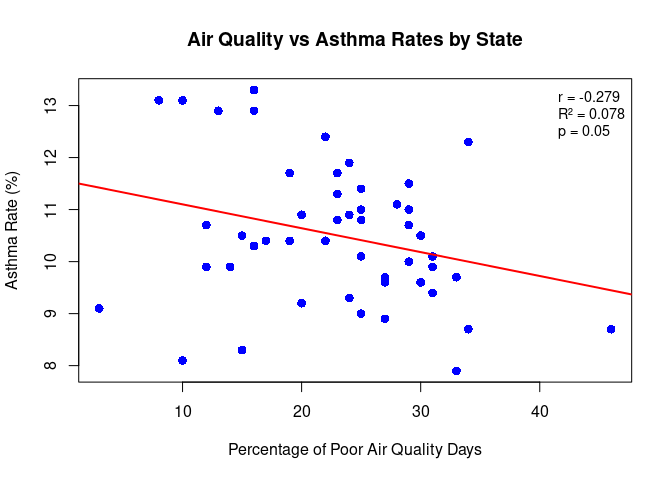
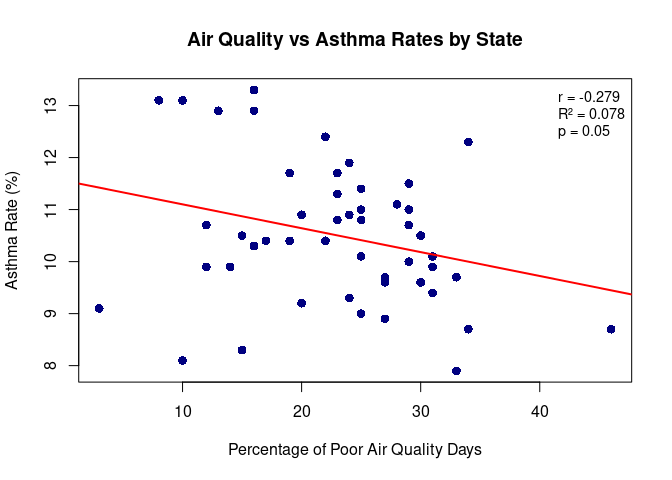
RMarkdown-Group-Project.md file

diff --git a/RMarkdown-Group-Project.md b/RMarkdown-Group-Project.md
@@ -1,7 +1,7 @@
 Group Project
 ================
 Keyan Cummins
-2025-11-20
+2025-12-02
 
 - [ABSTRACT](#abstract)
 - [BACKGROUND](#background)
@@ -9,13 +9,16 @@ Keyan Cummins
   - [Questions](#questions)
   - [Hypothesis](#hypothesis)
   - [Prediction](#prediction)
-- [METHODS/RESULTS](#methodsresults)
-  - [1st Analysis (Linear Regression)](#1st-analysis-linear-regression)
-  - [2nd Analysis (Pearson
-    Correlation)](#2nd-analysis-pearson-correlation)
+- [METHODS](#methods)
+  - [Statistical Methods](#statistical-methods)
+- [RESULTS](#results)
+  - [1st Analysis (Normality
+    Assessment)](#1st-analysis-normality-assessment)
+  - [2nd Analysis (Linear Regression)](#2nd-analysis-linear-regression)
+  - [3rd Analysis (Pearson
+    Correlation)](#3rd-analysis-pearson-correlation)
 - [DISCUSSION](#discussion)
-  - [Interpretation of 1st analysis](#interpretation-of-1st-analysis)
-  - [Interpretation of 2nd analysis](#interpretation-of-2nd-analysis)
+  - [Interpretation of Findings](#interpretation-of-findings)
 - [CONCLUSION](#conclusion)
 - [REFERENCES](#references)
 
@@ -38,35 +41,32 @@ supported by this dataset.
 
 # BACKGROUND
 
-Asthma is a lung condition that causes difficulty in breathing due to
-constricted airways in the lungs. There are many different kinds of
-asthma such as: exercise-induced asthma, occupational asthma, and
-allergy-induced asthma (Asthma). Those with occupational asthma can have
-attacks triggered by things such as gases, fumes, and dust, similar to
-that of air pollution (Asthma). Severity of the condition differs from
-person to person with some only experiencing minor symptoms while others
-can experience life-threatening challenges from the disease (Asthma).
-Asthma is a very common disease in the U.S., with about 28 million
-people in the U.S. suffering from asthma (Asthma Facts).
+Asthma is a chronic lung condition that causes difficulty in breathing
+due to inflammation and constricted airways in the lungs \[1\]. There
+are many different kinds of asthma, including exercise-induced,
+occupational, and allergy-induced asthma \[1\]. For instance,
+individuals with occupational asthma can have attacks triggered by
+exposures such as gases, fumes, and dust, which are similar to
+components found in air pollution \[1\]. The severity of the condition
+differs from person to person, with some only experiencing minor
+symptoms while others can face life-threatening challenges \[1\]. Asthma
+is a common disease in the U.S., affecting approximately 28 million
+people \[2\].
 
-Poor air quality can impact those who suffer from asthma by causing
-their condition to worsen and trigger attacks (Tiotiu). It has been
-found in epidemiological studies that greater levels of air pollution
-has been associated with childhood asthma and that following an
-improvement of air quality, childhood asthma incidence had lowered
-(Jama). The state with the worst air quality in the U.S. is California
-due to its high air pollution.
+Poor ambient air quality is known to impact those who suffer from asthma
+by causing their condition to worsen and triggering attacks \[6\].
+Epidemiological studies have found that greater levels of air pollution
+are associated with childhood asthma, and an improvement in air quality
+has been linked to a reduction in childhood asthma incidence \[5\]. It
+is believed that air quality can affect the prevalence of asthma per
+state. The state with the worst air quality in the U.S. is often cited
+as California due due to its high air pollution levels.
 
-It is believed that air quality can affect the prevalence of asthma per
-state. We hypothesize that states that have a higher amount of poor air
-quality days will have a higher prevalence of asthma. We predict that
-California will have the most poor air quality days and, because of
-that, they will also have the highest rates of asthma compared to other
-states. We took data from the United States Environmental Protection
-Agency on asthma prevelance and air quality index by state. To ensure
-the validity of our statistical approach, we utilized histograms and a
-Shapiro-Wilk test to determine if the data was normally distributed
-before proceeding with correlation and regression analysis.
+We hypothesize that states that have a higher amount of poor air quality
+days will have a higher prevalence of asthma. We predict that
+California, with its reported high levels of poor air quality days, will
+exhibit one of the highest rates of adult asthma compared to other
+states.
 
 ``` r
 # Load the data
@@ -136,6 +136,69 @@ Days by State (ranked by Asthma %)</figcaption>
 ``` r
 # This code was edited by prompts I gave to ChatGTP
 ```
+
+# STUDY QUESTION and HYPOTHESIS
+
+## Questions
+
+Does air quality effect the prevalence of asthma per state?
+
+## Hypothesis
+
+The states with the highest amounts of poor air quality days will also
+have higher prevalence of asthma.
+
+## Prediction
+
+California will have the highest prevelance of asthma because of its
+high amounts of poor air quality days.
+
+# METHODS
+
+Data Source and Sample SizeThe study utilized publicly available data
+from the United States Environmental Protection Agency (EPA) on two key
+variables for all 50 U.S. states (sample size n=50)
+
+Poor Air Quality Days (Predictor/Independent Variable): The proportion
+of days with an Air Quality Index (AQI) value above 50, indicating an
+unhealthy level of air quality for sensitive groups or the general
+population.
+
+Adult Asthma Prevalence (Response/Dependent Variable): The percentage of
+adults (aged 18+) who currently have asthma.
+
+## Statistical Methods
+
+1.  Normality Assessment To ensure the validity of the statistical
+    approach for parametric tests like Pearson correlation and simple
+    linear regression, the distribution of both the Poor Air Quality
+    Days and Asthma Prevalence variables was assessed using histograms
+    (with density curves) and the formal Shapiro-Wilk test. The null
+    hypothesis for the Shapiro-Wilk test is that the data is normally
+    distributed (alpha = 0.05).
+
+2.  Simple Linear Regression Simple Linear Regression was used to model
+    the relationship between the predictor (Poor Air Quality Days) and
+    the response (Asthma Rate). The analysis yielded the regression
+    equation, the R-squared (R^2) value (Coefficient of Determination),
+    and the regression p-value to determine the overall fit and
+    significance of the model.
+
+3.  Pearson Correlation A Pearson correlation test was performed to
+    formally test the null hypothesis that there is no linear
+    relationship between the two variables. This analysis produced the
+    Pearson correlation coefficient , a measure of the strength and
+    direction of the linear relationship, along with a 95% confidence
+    interval and a p-value for statistical significance.
+
+# RESULTS
+
+## 1st Analysis (Normality Assessment)
+
+The Shapiro-Wilk tests for normality, presented in Table 1, indicated
+that both variables could be considered normally distributed at the
+alpha = 0.05 significance level, thus meeting the assumptions for the
+planned parametric tests.
 
 ``` r
 # Set up side-by-side plots
@@ -213,30 +276,10 @@ Shapiro-Wilk Normality Tests
 # This code was edited by prompts I gave to ChatGTP
 ```
 
-# STUDY QUESTION and HYPOTHESIS
+## 2nd Analysis (Linear Regression)
 
-## Questions
-
-Does air quality effect the prevalence of asthma per state?
-
-## Hypothesis
-
-The states with the highest amounts of poor air quality days will also
-have higher prevalence of asthma.
-
-## Prediction
-
-California will have the highest prevelance of asthma because of its’
-high amounts of poor air quality days.
-
-# METHODS/RESULTS
-
-## 1st Analysis (Linear Regression)
-
-The first analysis utilized Simple Linear Regression to determine the
-presence, strength, and direction of a linear relationship between the
-predictor variable (Proportion of Poor Air Quality Days) and the
-response variable (Asthma Rate in percent).
+The regression analysis produced the following model, statistics, and
+scatter plot.
 
 ``` r
 ## 1st Analysis: Linear Regression - Air Quality vs Asthma Rates
@@ -249,7 +292,7 @@ plot(air_data$Poor_Air_Percent, air_data$Asthma,
      xlab = "Percentage of Poor Air Quality Days",
      ylab = "Asthma Rate (%)",
      main = "Air Quality vs Asthma Rates by State",
-     pch = 16, col = "blue", cex = 1.2)
+     pch = 16, col = "navyblue", cex = 1.2)
 
 # Add regression line
 model <- lm(Asthma ~ Poor_Air_Percent, data = air_data)
@@ -301,11 +344,10 @@ legend("topright",
 # This code was edited by prompts I gave to ChatGTP
 ```
 
-## 2nd Analysis (Pearson Correlation)
+## 3rd Analysis (Pearson Correlation)
 
-The second analysis utilized Pearson Correlation to formally test the
-null hypothesis that there is no linear relationship between the two
-variables.
+The formal Pearson correlation test results confirmed a weak, negative
+association between the variables.
 
 ``` r
 ## Pearson Correlation Analysis
@@ -353,36 +395,26 @@ Pearson Correlation Analysis
 
 # DISCUSSION
 
-## Interpretation of 1st analysis
+## Interpretation of Findings
 
-The Simple Linear Regression analysis established a model to predict the
-Asthma Rate based on the Percentage of Poor Air Quality Days. The
-analysis revealed a Correlation Coefficient of r = -0.279, indicating a
-weak negative linear relationship. This suggests that as the percentage
-of poor air quality days increases, the asthma rate tends to slightly
-decrease. The Coefficient of Determination R^2 was 0.078, meaning that
-approximately 7.8% of the variability in asthma rates across the 50
-states can be explained by poor air quality days. Importantly, the
-Regression p-value was 0.0497, which is just below the significance
-level of alpha = 0.05. Therefore, we reject the null hypothesis,
-concluding that there is a statistically significant linear relationship
-between these variables. However, the direction of this relationship
-(negative) is the opposite of what was expected.
+The study found a statistically significant weak negative linear
+relationship between the percentage of poor air quality days and adult
+asthma prevalence across the 50 U.S. states (r = -0.279, p = 0.0497).
+This result, while statistically significant at the alpha = 0.05 level,
+directly rejects the initial hypothesis and prediction.
 
-## Interpretation of 2nd analysis
+Our hypothesis predicted a positive correlation, suggesting that higher
+poor air quality would lead to higher asthma rates. Instead, the data
+indicates that states with a higher frequency of poor air quality days
+(like California, 46% poor air days, 8.7% asthma) tend to have slightly
+lower adult asthma prevalence rates compared to states with better air
+quality (like Maine, 8% poor air days, 13.1% asthma).
 
-The Pearson Correlation analysis reinforced the findings from the
-regression. The Pearson correlation coefficient r = -0.279 confirmed the
-weak negative association. The calculated p-value of 0.0497 indicates
-that the result is statistically significant at the 95% confidence
-level. This means that the likelihood of observing this relationship by
-random chance (if there were truly no relationship) is less than 5%.
-Consequently, we have statistical evidence to suggest a non-zero
-correlation, but the result directly contradicts our prediction. The
-data indicate that states with higher frequencies of poor air quality
-days (like California) actually report lower percentages of adults with
-current asthma compared to states with better air quality (like Maine or
-New Hampshire).
+The R^2 value of 0.078 shows that only 7.8% of the variability in
+state-level asthma rates is explained by outdoor air quality. This low
+value strongly suggests that the overall state-level asthma prevalence
+is overwhelmingly influenced by other, more powerful confounding
+factors.
 
 # CONCLUSION
 
